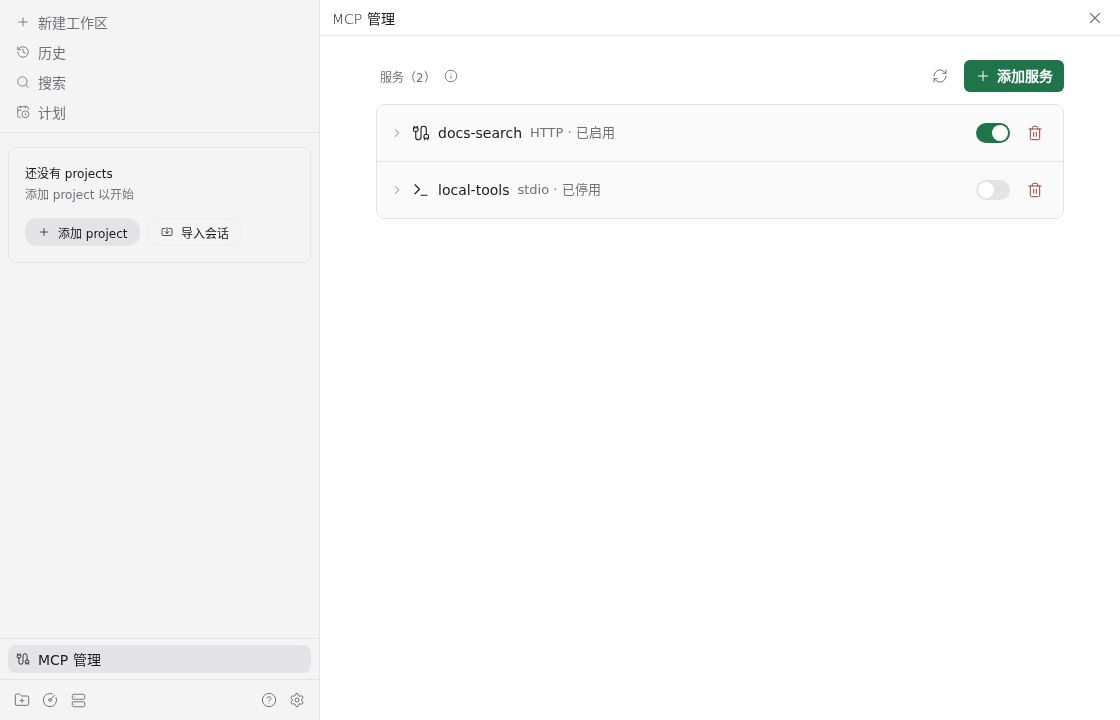
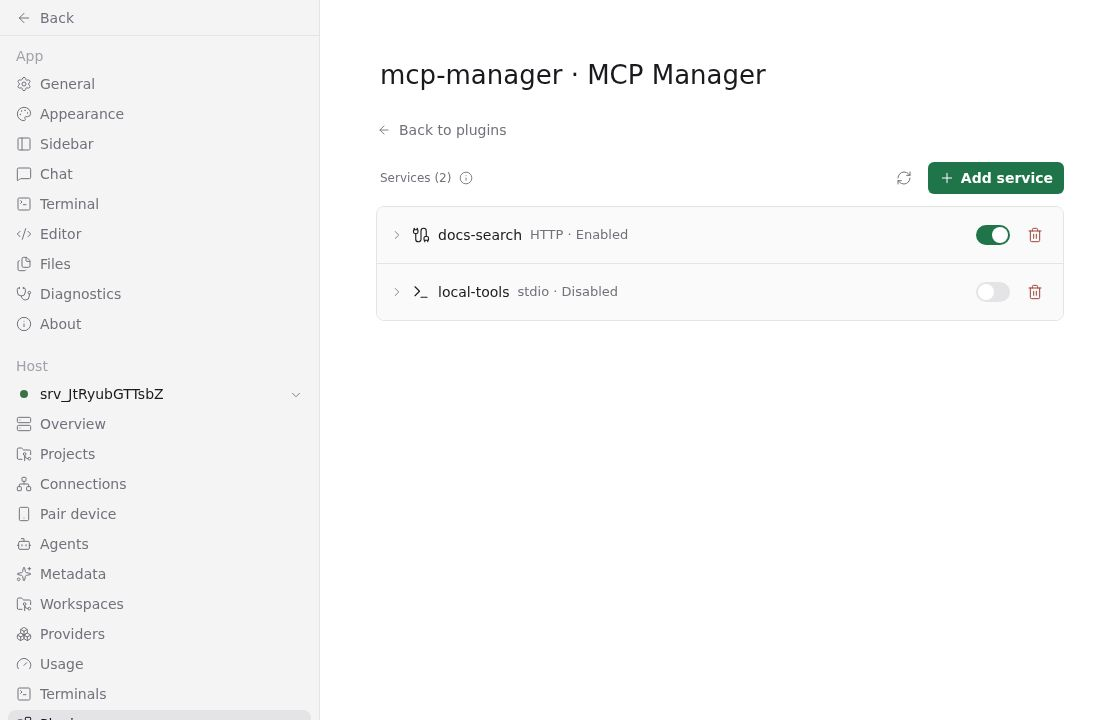
Move MCP Manager navigation into host settings

diff --git a/client/manager.tsx b/client/manager.tsx
@@ -1,7 +1,7 @@
 import { useState } from "react";
 import { Text, View } from "react-native";
-import { useSettings, useTranslation, type PluginScreenProps, type SettingsState } from "@getpaseo/plugin/client";
-import { Modal, ScrollView, SettingsAction, SettingsCard, SettingsInput, SettingsRow, SettingsSection, SettingsSelect, SettingsSwitch, TextInput } from "@getpaseo/plugin/client/ui";
+import { useSettings, useTranslation, type PluginSurfaceProps, type SettingsState } from "@getpaseo/plugin/client";
+import { Modal, SettingsAction, SettingsCard, SettingsInput, SettingsRow, SettingsSection, SettingsSelect, SettingsSwitch, TextInput } from "@getpaseo/plugin/client/ui";
 import { ServiceRow } from "./service-row.tsx";
 import { Action } from "./action.tsx";
 import { messages, type MessageKey } from "./messages.ts";
@@ -11,7 +11,7 @@ type Settings = SettingsState<typeof services.schema>;
 type Ready = Extract<Settings, { status: "ready" }>;
 type Draft = { originalName: string | null; values: ServiceValues; revision: string };
 
-function ServiceEditor({ draft, settings, theme, onClose }: { draft: Draft; settings: Settings; theme: PluginScreenProps["theme"]; onClose(): void }) {
+function ServiceEditor({ draft, settings, theme, onClose }: { draft: Draft; settings: Settings; theme: PluginSurfaceProps["theme"]; onClose(): void }) {
   const { t } = useTranslation(messages);
   const initial = draft.originalName === null ? undefined : draft.values.services[draft.originalName];
   const [base, setBase] = useState(draft);
@@ -108,7 +108,7 @@ function ServiceEditor({ draft, settings, theme, onClose }: { draft: Draft; sett
   </Modal.Content></Modal>;
 }
 
-export function Manager({ theme, layout }: PluginScreenProps) {
+export function Manager({ theme, layout }: PluginSurfaceProps) {
   const { t } = useTranslation(messages);
   const settings = useSettings(services);
   const [draft, setDraft] = useState<Draft | null>(null);
@@ -131,24 +131,22 @@ export function Manager({ theme, layout }: PluginScreenProps) {
     if (await settings.save({ services: next }, deletion.base.revision)) { setDeletion(null); setNotice("deleted"); }
     else setNotice("deleteFailed");
   };
-  return <View style={{ flex: 1, backgroundColor: theme.colors.surface0 }}>
-    <ScrollView contentContainerStyle={{ padding: 16, paddingTop: 24, gap: 24, width: "100%", maxWidth: 720, alignSelf: "center" }}>
-      {settings.status === "loading" ? <Text style={text}>{t("loading")}</Text> : settings.status !== "ready" ? <SettingsSection title={t(settings.status === "invalid" ? "invalidTitle" : "readErrorTitle")}>
-        <Text accessibilityRole="alert" style={text}>{t(settings.status === "invalid" ? "invalidHint" : "readErrorHint")}</Text>
-        <SettingsAction label={t("readAgain")} actionLabel={t("reload")} onPress={() => void settings.reload()} />
-      </SettingsSection> : <SettingsSection title={t("servicesCount", { count: Object.keys(settings.values.services).length })}
-        info={`${t("scopeHint")}\n\n${t("providerHint")}`}
-        trailing={<View style={{ flexDirection: "row", alignItems: "center", gap: 8 }}>
-          <Action theme={theme} label={t("reload")} icon="RefreshCw" iconOnly disabled={settings.saving || !!draft || !!deletion} onPress={() => void settings.reload()} />
-          <Action theme={theme} primary label={t("addService")} icon="Plus" iconOnly={layout.compact} disabled={settings.saving || !!draft || !!deletion} onPress={() => start(null)} />
-        </View>}>
-        {!Object.keys(settings.values.services).length ? <SettingsCard><SettingsRow label={t("empty")} /></SettingsCard> : <SettingsCard>
-          {Object.entries(settings.values.services).map(([name, value]) => <ServiceRow key={name} theme={theme} compact={layout.compact} name={name} transport={value.config.type} enabled={value.enabled}
-            disabled={settings.saving || !!draft || !!deletion} onEdit={() => start(name)} onToggle={() => void toggle(name)} onDelete={() => { setDeletion({ name, base: settings }); setNotice(""); }} />)}
-        </SettingsCard>}
-      </SettingsSection>}
-      {notice && !deletion ? <Text accessibilityRole="alert" style={text}>{t(notice)}</Text> : null}
-    </ScrollView>
+  return <View style={{ gap: 24 }}>
+    {settings.status === "loading" ? <Text style={text}>{t("loading")}</Text> : settings.status !== "ready" ? <SettingsSection title={t(settings.status === "invalid" ? "invalidTitle" : "readErrorTitle")}>
+      <Text accessibilityRole="alert" style={text}>{t(settings.status === "invalid" ? "invalidHint" : "readErrorHint")}</Text>
+      <SettingsAction label={t("readAgain")} actionLabel={t("reload")} onPress={() => void settings.reload()} />
+    </SettingsSection> : <SettingsSection title={t("servicesCount", { count: Object.keys(settings.values.services).length })}
+      info={`${t("scopeHint")}\n\n${t("providerHint")}`}
+      trailing={<View style={{ flexDirection: "row", alignItems: "center", gap: 8 }}>
+        <Action theme={theme} label={t("reload")} icon="RefreshCw" iconOnly disabled={settings.saving || !!draft || !!deletion} onPress={() => void settings.reload()} />
+        <Action theme={theme} primary label={t("addService")} icon="Plus" iconOnly={layout.compact} disabled={settings.saving || !!draft || !!deletion} onPress={() => start(null)} />
+      </View>}>
+      {!Object.keys(settings.values.services).length ? <SettingsCard><SettingsRow label={t("empty")} /></SettingsCard> : <SettingsCard>
+        {Object.entries(settings.values.services).map(([name, value]) => <ServiceRow key={name} theme={theme} compact={layout.compact} name={name} transport={value.config.type} enabled={value.enabled}
+          disabled={settings.saving || !!draft || !!deletion} onEdit={() => start(name)} onToggle={() => void toggle(name)} onDelete={() => { setDeletion({ name, base: settings }); setNotice(""); }} />)}
+      </SettingsCard>}
+    </SettingsSection>}
+    {notice && !deletion ? <Text accessibilityRole="alert" style={text}>{t(notice)}</Text> : null}
     {draft ? <ServiceEditor draft={draft} settings={settings} theme={theme} onClose={() => setDraft(null)} /> : null}
     {deletion ? <Modal title={t("deleteTitle", { name: deletion.name })} open onOpenChange={open => { if (!open && !settings.saving) setDeletion(null); }}><Modal.Content>
       <Text style={text}>{t("deleteHint")}</Text>

diff --git a/index.client.tsx b/index.client.tsx
@@ -1,14 +1,8 @@
-import type { PluginClientContext, PluginSidebarItemProps } from "@getpaseo/plugin/client";
-import { SidebarRow } from "@getpaseo/plugin/client/ui";
+import type { PluginClientContext } from "@getpaseo/plugin/client";
 import { messages } from "./client/messages.ts";
 import { Manager } from "./client/manager.tsx";
 
-function Navigation({ currentScreen, openScreen }: PluginSidebarItemProps) {
-  return <SidebarRow icon="Cable" active={currentScreen?.screenId === "main"} onPress={() => openScreen({ screenId: "main" })} />;
-}
-
 export default function contribute(client: PluginClientContext) {
-  client.addScreen({ id: "main", title: messages.message("managerTitle"), Component: Manager });
-  client.addSidebarFooterItem({ id: "main", title: messages.message("managerTitle"), Component: Navigation });
+  client.addSettingsScreen({ id: "main", title: messages.message("managerTitle"), icon: "Cable", Component: Manager });
   return () => {};
 }

diff --git a/client/service-row.tsx b/client/service-row.tsx
@@ -1,13 +1,13 @@
 import { useState } from "react";
 import { Pressable, Text, View } from "react-native";
-import type { PluginScreenProps } from "@getpaseo/plugin/client";
+import type { PluginSurfaceProps } from "@getpaseo/plugin/client";
 import { useTranslation } from "@getpaseo/plugin/client";
 import { Icon } from "@getpaseo/plugin/client/ui";
 import { Action } from "./action.tsx";
 import { messages } from "./messages.ts";
 
 export function ServiceRow({ theme, compact, name, transport, enabled, disabled, onEdit, onToggle, onDelete }: {
-  theme: PluginScreenProps["theme"]; compact: boolean; name: string; transport: "http" | "stdio";
+  theme: PluginSurfaceProps["theme"]; compact: boolean; name: string; transport: "http" | "stdio";
   enabled: boolean; disabled: boolean; onEdit(): void; onToggle(): void; onDelete(): void;
 }) {
   const { t } = useTranslation(messages);

diff --git a/client/action.tsx b/client/action.tsx
@@ -1,10 +1,10 @@
 import { useState } from "react";
 import { Pressable, Text } from "react-native";
-import type { PluginScreenProps } from "@getpaseo/plugin/client";
+import type { PluginSurfaceProps } from "@getpaseo/plugin/client";
 import { Icon } from "@getpaseo/plugin/client/ui";
 
 export function Action({ theme, label, accessibilityLabel = label, icon, iconOnly = false, primary = false, danger = false, disabled = false, onPress }: {
-  theme: PluginScreenProps["theme"]; label: string; accessibilityLabel?: string; icon?: string; iconOnly?: boolean;
+  theme: PluginSurfaceProps["theme"]; label: string; accessibilityLabel?: string; icon?: string; iconOnly?: boolean;
   primary?: boolean; danger?: boolean; disabled?: boolean; onPress(): void;
 }) {
   const [hovered, setHovered] = useState(false);

diff --git a/docs/validation.md b/docs/validation.md
@@ -68,3 +68,12 @@ Recorded 2026-10-28 against community Paseo 0.13.2 on a disposable daemon with t
 - After the fix, real pointer clicks opened/cancelled the first, second and first editors in sequence. Moving to the section information button left both edit borders transparent and both row backgrounds equal; hovering the first row changed only its background. The same retained-border assertion passed.
 - The server-browser plugin verified real Tab navigation: the service edit button and switch retain the host keyboard outline. The app browser supplied computed-style assertions because server-browser has no DOM-evaluation or hover RPC.
 - Typecheck and all ten contract/localization tests passed. This patch changes client interaction only; paid provider calls and physical mobile/screen-reader testing were not repeated.
+
+# v0.1.4 settings navigation
+
+Recorded 2026-10-28 against community Paseo 0.13.2, using the server-browser plugin and a disposable daemon with fake services.
+
+- Replaced the standalone screen and sidebar-footer registration with the public `addSettingsScreen` API, keeping the translated title and Cable icon. The actual workspace sidebar no longer shows MCP Manager; Settings → Plugins → the plugin actions menu exposes MCP Manager and opens its host-scoped settings route.
+- The manager accepts `PluginSurfaceProps` and renders content inside Paseo's settings frame. Removed its nested ScrollView and duplicate page padding; the host owns the header, centered column, scrolling and back navigation.
+- Checked the actual menu-to-settings navigation at 1120px in the light theme, opened the editor, and saved a valid unchanged sample definition. Public settings assertions verified both services and their original order. At 390×844 in the dark theme, the settings header, compact rows and inline actions remain visible. Release media were refreshed from these real frames and contain sample data only. English and Chinese overview/setup text now describes the settings entry.
+- Typecheck and all ten contract/localization tests passed. Settings schema, server hooks, credentials and new-agent injection are unchanged. Paid provider calls and physical mobile/screen-reader testing were not repeated.

diff --git a/README.md b/README.md
@@ -12,7 +12,7 @@ Enable trusted plugins on your daemon, then install the public source:
 paseo plugin install github:hulkzzhou1/paseo-mcp-manager --ref v0.1.2
 ```
 
-Open **MCP Manager** in the sidebar. Connections use a compact grouped card matching Paseo’s Providers page. Each row keeps its name, transport/status, enable switch and delete action aligned; click the name to edit in a modal. The section header holds add/reload actions, and its information tip explains how connections apply. The interface follows the Paseo app language (English or Simplified Chinese, with English fallback). See the [bilingual message table](docs/translations.md). Add a service, select HTTP or stdio, enter its values, then save. Create a new Codex or Claude agent to use its tools. Saving does not connect, launch commands or verify credentials.
+Open **Settings → Plugins** on the intended host, then choose **MCP Manager** from the plugin’s actions menu. Connections use a compact grouped card matching Paseo’s Providers page. Each row keeps its name, transport/status, enable switch and delete action aligned; click the name to edit in a modal. The section header holds add/reload actions, and its information tip explains how connections apply. The interface follows the Paseo app language (English or Simplified Chinese, with English fallback). See the [bilingual message table](docs/translations.md). Add a service, select HTTP or stdio, enter its values, then save. Create a new Codex or Claude agent to use its tools. Saving does not connect, launch commands or verify credentials.
 
 - HTTP: HTTP/HTTPS URL and optional string-valued headers, including the complete authentication prefix.
 - stdio: executable command, a JSON array of argument strings, and a string-valued environment map. Commands run on the daemon in the agent's context; arguments are not split or evaluated as shell text.

diff --git a/OVERVIEW.md b/OVERVIEW.md
@@ -1,6 +1,6 @@
 # MCP Manager
 
-Manage HTTP and stdio MCP connections from a Paseo sidebar screen. Add, edit, rename, enable, disable or delete services using a form or a single-service JSON editor. Each daemon keeps its own definitions.
+Manage HTTP and stdio MCP connections in Settings → Plugins → MCP Manager on the selected host. Add, edit, rename, enable, disable or delete services using a form or a single-service JSON editor. Each daemon keeps its own definitions.
 
 Connections use compact rows in a grouped card matching Paseo’s Providers page. Names, transport/status, enable switches and actions stay aligned. Click a name to edit in a modal; add/reload actions sit in the section header, with usage guidance in its information tip. The interface follows the app language: English and Simplified Chinese are included; other languages fall back to English.
 

diff --git a/OVERVIEW.zh-CN.md b/OVERVIEW.zh-CN.md
@@ -1,6 +1,6 @@
 # MCP 管理
 
-从 Paseo 侧边栏管理 HTTP 和 stdio MCP 连接。可通过表单或单服务 JSON 编辑器添加、编辑、重命名、启停和删除服务。每个 daemon 独立保存定义。
+在 Paseo「设置 → 插件 → MCP 管理」中管理所选主机的 HTTP 和 stdio MCP 连接。可通过表单或单服务 JSON 编辑器添加、编辑、重命名、启停和删除服务。每个 daemon 独立保存定义。
 
 界面沿用 Paseo Providers 的紧凑分组卡片，名称、传输方式／启用状态、开关和操作按行对齐。点击名称进入编辑弹窗；新增／重新加载位于分组标题行，使用说明收在信息提示中。界面跟随应用语言，支持英文和简体中文，其他语言回退到英文。
 
